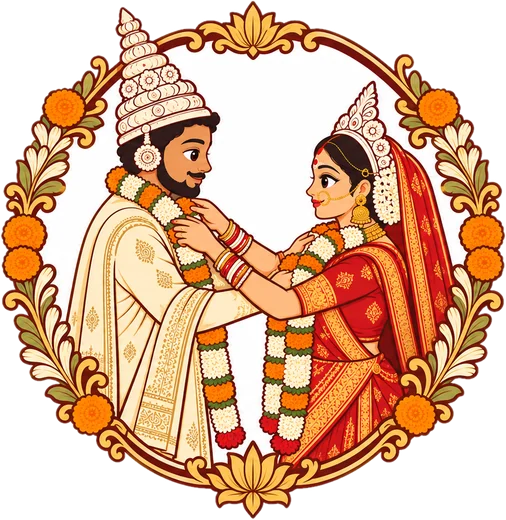
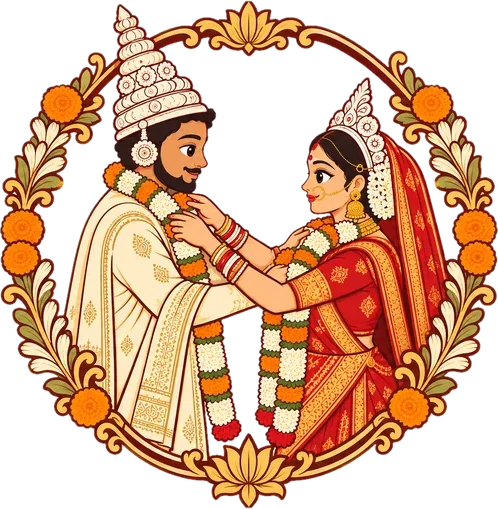
Ritual scenes: remove the white backdrop inside the frames
Claude-Session: https://claude.ai/code/session_01A7U3bhfqdo6UgM5ft2nzAm

Changed region(s): [[0.0, 0.0, 1.0, 1.0]]

diff --git a/index.html b/index.html
@@ -168,10 +168,10 @@
   <section class="rituals rv" aria-labelledby="ritualTitle">
     <h2 id="ritualTitle" class="section-title" data-i="ritualTitle">শুভ বিবাহের মুহূর্ত</h2>
     <div class="ritual-grid">
-      <figure class="ritual rv"><img src="img/art/shubhodrishti.webp" alt="" width="499" height="520" loading="lazy"><figcaption data-i="rShubho">শুভদৃষ্টি</figcaption></figure>
-      <figure class="ritual rv"><img src="img/art/malabadal.webp" alt="" width="506" height="520" loading="lazy"><figcaption data-i="rMala">মালাবদল</figcaption></figure>
-      <figure class="ritual rv"><img src="img/art/chhadnatala.webp" alt="" width="514" height="520" loading="lazy"><figcaption data-i="rYagna">সাত পাক ও যজ্ঞ</figcaption></figure>
-      <figure class="ritual rv"><img src="img/art/sindoor.webp" alt="" width="500" height="520" loading="lazy"><figcaption data-i="rSindoor">সিঁদুর দান</figcaption></figure>
+      <figure class="ritual rv"><img src="img/art/shubhodrishti.webp" alt="" width="496" height="512" loading="lazy"><figcaption data-i="rShubho">শুভদৃষ্টি</figcaption></figure>
+      <figure class="ritual rv"><img src="img/art/malabadal.webp" alt="" width="498" height="509" loading="lazy"><figcaption data-i="rMala">মালাবদল</figcaption></figure>
+      <figure class="ritual rv"><img src="img/art/chhadnatala.webp" alt="" width="503" height="508" loading="lazy"><figcaption data-i="rYagna">সাত পাক ও যজ্ঞ</figcaption></figure>
+      <figure class="ritual rv"><img src="img/art/sindoor.webp" alt="" width="498" height="514" loading="lazy"><figcaption data-i="rSindoor">সিঁদুর দান</figcaption></figure>
     </div>
   </section>
 
